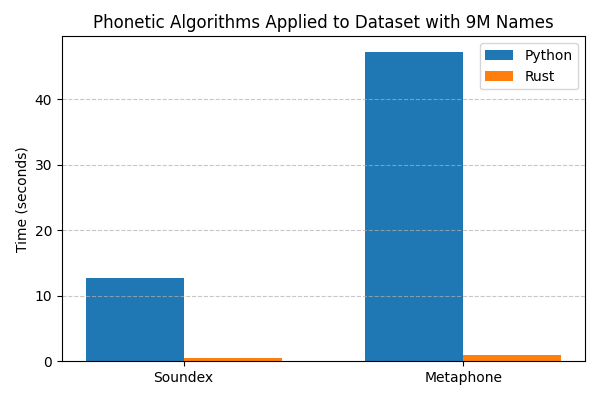
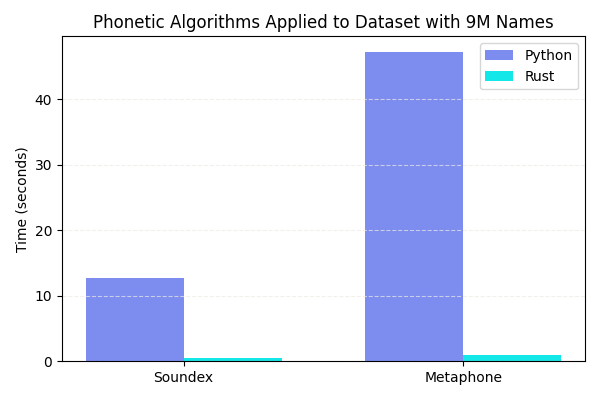
feat: Plot Python vs Rust phonetic algorithm performance

diff --git a/16_plot_benchmarks/main.py b/16_plot_benchmarks/main.py
@@ -1,5 +1,18 @@
 import matplotlib.pyplot as plt
 
+# Colors
+white = "#FFFFFF"
+black = "#020202"
+sandstone = "#ECEAE4"
+teal = "#14E7E8"
+violet = "#7C8CEF"
+
+# Scheme
+light_mode = True
+primary_color = white if light_mode else black
+text_color = black if light_mode else white
+grid_color = sandstone if light_mode else "#333333"
+
 labels = ["Soundex", "Metaphone"]
 
 python_6k = [0.0052, 0.0184]
@@ -12,14 +25,19 @@ rust_9m = [0.4404, 0.9938]
 def plot_benchmark(labels, python_times, rust_times, dataset_label, filename):
     x = range(len(labels))
     width = 0.35
-    plt.figure(figsize=(6, 4))
-    plt.bar([i - width / 2 for i in x], python_times, width, label="Python")
-    plt.bar([i + width / 2 for i in x], rust_times, width, label="Rust")
-    plt.ylabel("Time (seconds)")
-    plt.title(f"Phonetic Algorithms Applied to Dataset with {dataset_label}")
-    plt.xticks(x, labels)
+    plt.rcParams["axes.facecolor"] = primary_color
+    plt.figure(figsize=(6, 4), facecolor=primary_color, edgecolor=text_color)
+    plt.bar(
+        [i - width / 2 for i in x], python_times, width, label="Python", color=violet
+    )
+    plt.bar([i + width / 2 for i in x], rust_times, width, label="Rust", color=teal)
+    plt.ylabel("Time (seconds)", color=text_color)
+    plt.title(
+        f"Phonetic Algorithms Applied to Dataset with {dataset_label}", color=text_color
+    )
+    plt.xticks(x, labels, color=text_color)
     plt.legend()
-    plt.grid(axis="y", linestyle="--", alpha=0.7)
+    plt.grid(axis="y", linestyle="--", alpha=0.7, color=grid_color)
     plt.tight_layout()
     plt.savefig(filename)
     plt.close()
